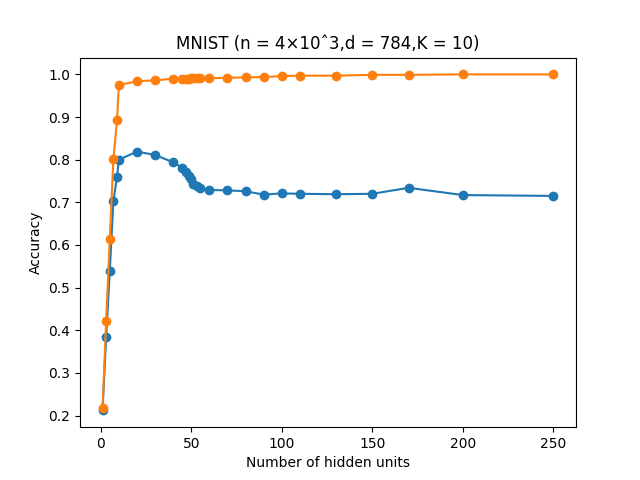
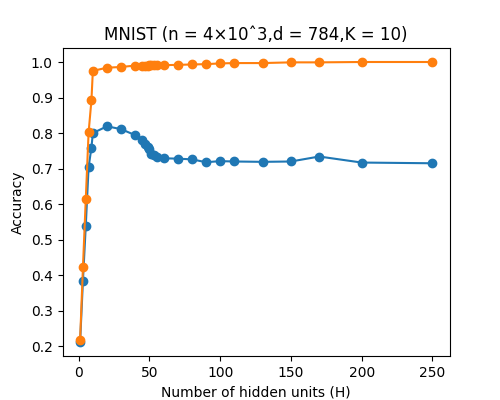
Figures for weight-reuse-epcoh=6000

Changed region(s): [[0.03, 0.06, 0.9, 1.0]]

diff --git a/mnist_dd_plot.py b/mnist_dd_plot.py
@@ -4,8 +4,14 @@ import re
 import math
 
 epochs = 6000
-directory = 'assets/mnist/standard-case/epoch=%d/plots' % epochs
-input_file = 'assets/mnist/standard-case/epoch=%d/standard-epoch=%d.txt' % (epochs, epochs)
+weight_reuse = True
+
+if weight_reuse:
+    directory = 'assets/mnist/weight-reuse-case/epoch=%d/plots' % epochs
+    input_file = 'assets/mnist/weight-reuse-case/epoch=%d/epoch=%d.txt' % (epochs, epochs)
+else:
+    directory = 'assets/mnist/standard-case/epoch=%d/plots' % epochs
+    input_file = 'assets/mnist/standard-case/epoch=%d/epoch=%d.txt' % (epochs, epochs)
 
 if not os.path.isdir(directory):
     os.mkdir(directory)
@@ -23,57 +29,57 @@ if __name__ == '__main__':
 
     for pair in array:
         hidden_units.append(float(pair[0]))
-        parameters.append(float(pair[1]) / 1000)
-        train_losses.append(float(pair[2]))
-        train_accs.append(float(pair[3]))
-        test_losses.append(float(pair[4]))
-        test_accs.append(float(pair[5]))
+        #parameters.append(float(pair[1]) / 1000)
+        train_losses.append(float(pair[1]))
+        train_accs.append(float(pair[2]))
+        test_losses.append(float(pair[3]))
+        test_accs.append(float(pair[4]))
 
-    #for n in hidden_units:
-    #    parameters.append(int( (785 * n + (n + 1) * 10) / 1000) )
+    for n in hidden_units:
+        parameters.append(int( (785 * n + (n + 1) * 10) / 1000) )
 
     plt.figure(figsize=(5, 4))
-    ax = plt.axes()
-    ax.set_xscale('function', functions=(lambda x: x**(1/4), lambda x: x**4))
+    #ax = plt.axes()
+    #ax.set_xscale('function', functions=(lambda x: x**(1/4), lambda x: x**4))
     plt.plot(hidden_units, test_losses, marker='o', label='test')
     plt.plot(hidden_units, train_losses, marker='o', label='train')
-    plt.xticks([1, 5, 20, 50, 100, 200, 400, 700, 1000])
+    #plt.xticks([1, 5, 20, 50, 100, 200, 400, 700, 1000])
     plt.xlabel('Number of hidden units (H)')
     plt.ylabel('Squared loss')
     plt.title('MNIST (n = 4×10ˆ3,d = 784,K = 10)')
     plt.savefig(os.path.join(directory, 'MSE-Neurons.png'))
 
     plt.figure(figsize=(6, 4.5))
-    ax = plt.axes()
-    ax.set_xscale('function', functions=(lambda x: x**(1/4), lambda x: x**4))
+    #ax = plt.axes()
+    #ax.set_xscale('function', functions=(lambda x: x**(1/4), lambda x: x**4))
     plt.plot(parameters, test_losses, marker='o', label='test')
     plt.plot(parameters, train_losses, marker='o', label='train')
-    plt.xticks([14, 40, 100, 300, 800])
-    plt.yticks([0.00, 0.01, 0.02, 0.03, 0.04])
-    plt.xlim((10, 850))
-    plt.ylim((-0.003, 0.04))
+    #plt.xticks([14, 40, 100, 300, 800])
+    #plt.yticks([0.00, 0.01, 0.02, 0.03, 0.04])
+    #plt.xlim((10, 300))
+    #plt.ylim((-0.003, 0.1))
     plt.xlabel('Number of parameters/weights (×10ˆ3)')
     plt.ylabel('Squared loss')
     plt.title('MNIST (n = 4×10ˆ3,d = 784,K = 10)')
     plt.savefig(os.path.join(directory, 'MSE-Parameters.png'))
 
     plt.figure(figsize=(5, 4))
-    ax = plt.axes()
-    ax.set_xscale('function', functions=(lambda x: x**(1/4), lambda x: x**4))
+    #ax = plt.axes()
+    #ax.set_xscale('function', functions=(lambda x: x**(1/4), lambda x: x**4))
     plt.plot(hidden_units, test_accs, marker='o', label='test')
     plt.plot(hidden_units, train_accs, marker='o', label='train')
-    plt.xticks([1, 5, 20, 50, 100, 200, 400, 700, 1000])
+    #plt.xticks([1, 5, 20, 50, 100, 200, 400, 700, 1000])
     plt.xlabel('Number of hidden units (H)')
     plt.ylabel('Accuracy')
     plt.title('MNIST (n = 4×10ˆ3,d = 784,K = 10)')
     plt.savefig(os.path.join(directory, 'Accuracy-Neurons.png'))
 
     plt.figure(figsize=(5, 4))
-    ax = plt.axes()
-    ax.set_xscale('function', functions=(lambda x: x**(1/4), lambda x: x**4))
+    #ax = plt.axes()
+    #ax.set_xscale('function', functions=(lambda x: x**(1/4), lambda x: x**4))
     plt.plot(parameters, test_accs, marker='o', label='test')
     plt.plot(parameters, train_accs, marker='o', label='train')
-    plt.xticks([14, 40, 100, 300, 800])
+    #plt.xticks([14, 40, 100, 300, 800])
     plt.xlabel('Number of parameters/weights (×10ˆ3)')
     plt.ylabel('Accuracy')
     plt.title('MNIST (n = 4×10ˆ3,d = 784,K = 10)')
